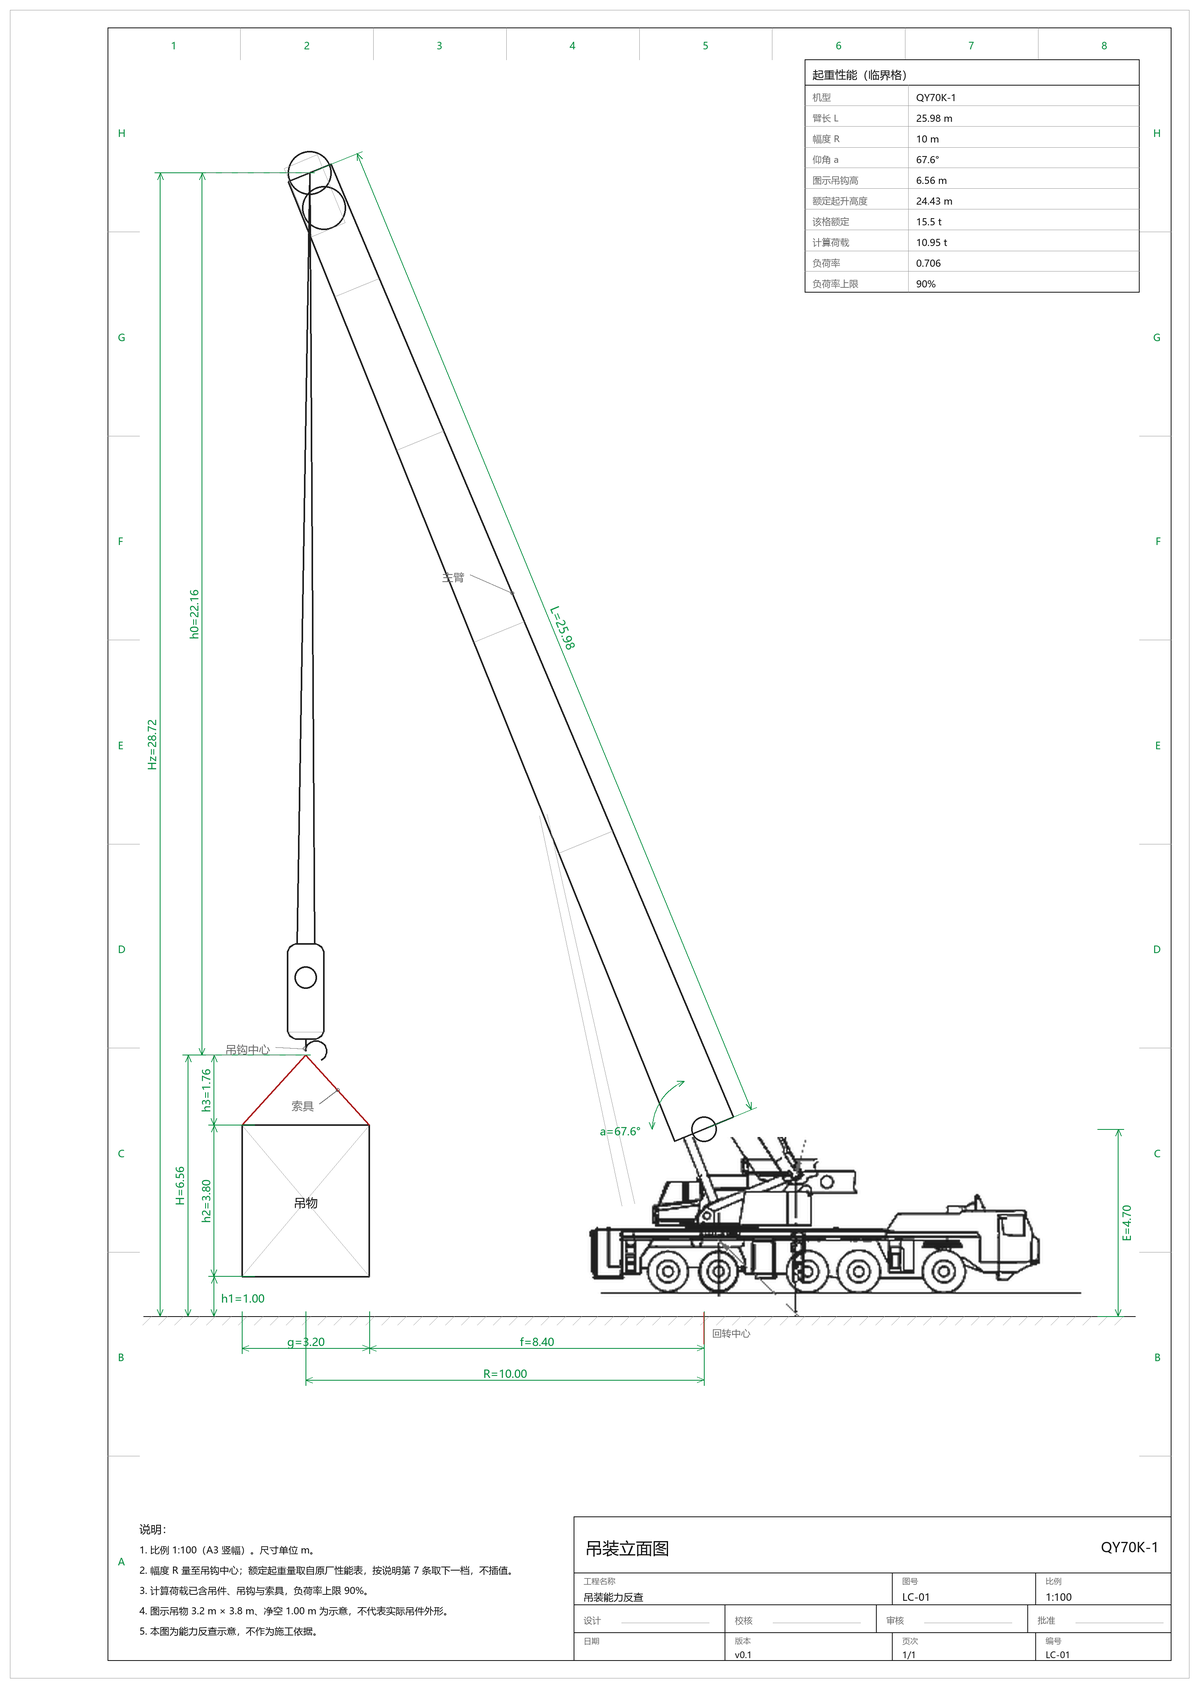
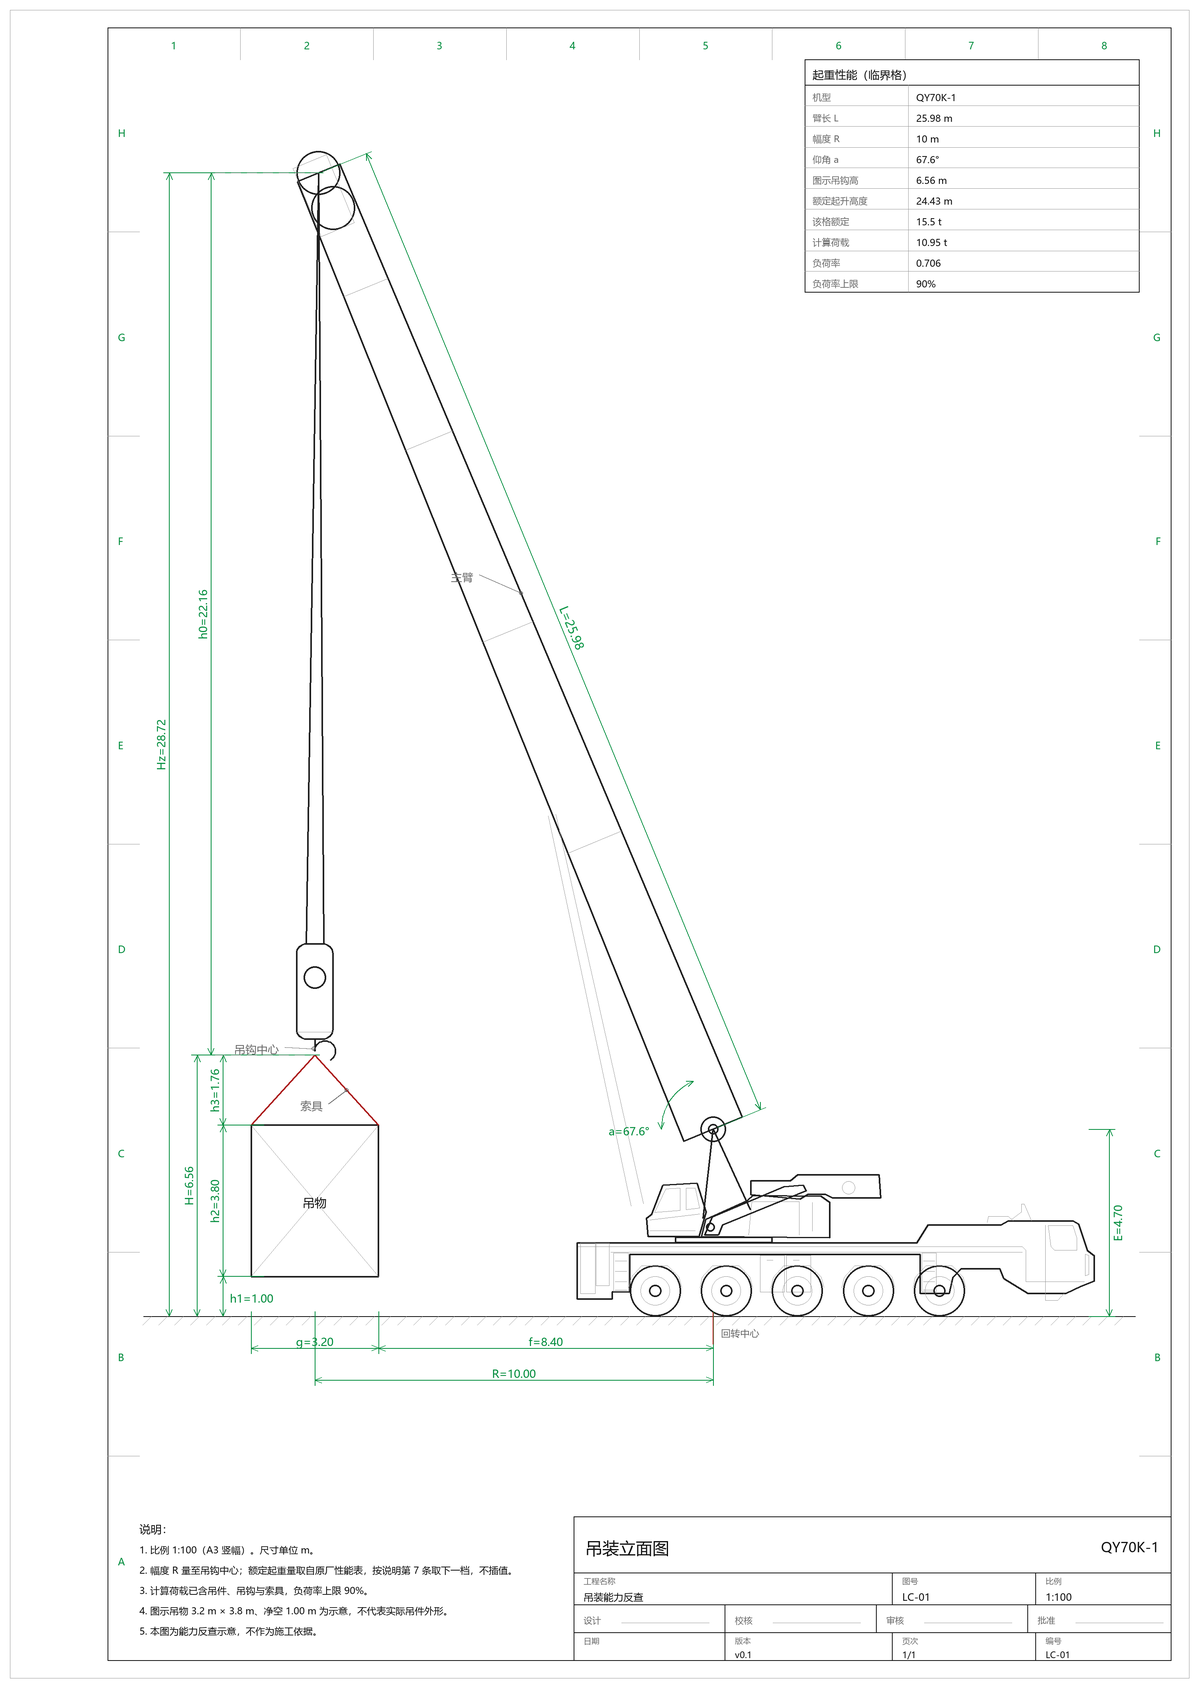
fix(drawing): 修正 PR #1 的车身标定、轴距与性能表标注
在 PR #1（车身矢量化）基础上做四处修正，都是"画出来的东西不对"：

1. 纵向标定：横向 942 px = 13 m（72.5 px/m），纵向却用 80 px/m，车身被压扁 10%。
   改为同一 px/m（各向同性），车身高度 3.22 m → 3.56 m，轮胎与轮拱才对得上。
2. 轮胎与轴距：轴位原本直接沿用描点时挑的像素，4 轴时轴距 1.57/4.02/2.48 m
   （中间漏一大块），6 轴时 1.41/1.39/2.39/1.44/1.48 m；改为按轴数在参考图范围内
   均布，并加断言"最小轴距 ≥ 2×WHEEL_R"。轮胎半径 0.55 → 0.64 m（轮拱实测 Ø1.28）。
3. 轴数规则：≤100 t 原定四轴，与 70 t 车实为五轴不符（描点来源本身就是五轴），
   改为 5 / 6 / 8。
4. 性能表里原本打"QY70K-1 / 4轴示意"：轴数是示意，写在图上会被当成机型参数，
   去掉；轴数只留在 figure.meta 与测试里。

另外：
- 车身尺寸常量收进 body.py（MODEL_REAR / BODY_MODEL_FRONT / PX_PER_M），
  figures.py 只引用 BODY_MODEL_FRONT，避免两处标定各说各话
- tests/test_drawing_axles.py 重写为类型标注风格，新增"未知吨级不出轴"与"轴距不重叠"断言
- ruff 清零（原 PR 有 3 条：导入排序、SIM102）
- README / 交接文档同步：车身一套、轴数为示意、待办改为"给机型库加 axles 列"

diff --git a/src/liftcalc/drawing/body.py b/src/liftcalc/drawing/body.py
@@ -1,6 +1,10 @@
-"""汽车吊矢量底盘：所有格式共用；轮距与轴数为吨级示意，不是厂商参数。
+"""汽车吊矢量底盘：SVG / PNG / DXF 共用同一套线稿。
 
-坐标同样走 ``paper``（模型 m → 图面 mm），故与立面几何严格对齐。
+轮廓按参考图的像素坐标描点（`docs/handover/assets/原版吊装立面-汽车吊.png` 的车身），
+所以形状与素材一致，但**矢量化**——放大不发虚，DXF 里也有车身。
+
+轴数为吨级示意（≤100 t 五轴、100–300 t 六轴、≥300 t 八轴），轮胎按真实直径画，
+不是厂商的轴距/轴荷数据。坐标同样走 ``paper``（模型 m → 图面 mm），与立面几何严格对齐。
 """
 
 from __future__ import annotations
@@ -12,45 +16,79 @@ from pathlib import Path
 from liftcalc.drawing.primitives import Circle, Figure, Polyline
 from liftcalc.drawing.style import LAYER_OUTLINE, LAYER_THIN
 
-# 轴距（m，模型 x：正值朝吊物侧即车尾，负值朝车头）
+# 参考图标定：车身长 942 px 对应 13 m；纵向必须用同一 px/m，否则车身被压扁 10%
+TRACE_PX = 942.0
+TRACE_M = 13.0
+PX_PER_M = TRACE_PX / TRACE_M          # ≈ 72.5 px/m
+MODEL_REAR = 3.45                      # 车尾（参考图 x=64 px）距回转中心
+BODY_MODEL_FRONT = TRACE_M - MODEL_REAR  # 车头前沿距回转中心 = 9.55 m
+GROUND_PX = 328.0                      # 参考图上地面线的 y
+WHEEL_R = 0.64                         # 轮胎半径（按参考图轮拱约 1.28 m 直径）
+
+# 每个轴数的轴距范围（参考图 px），取够放下 n 个 1.28 m 轮胎且不互相盖住
+AXLE_SPANS = {5: (209.0, 726.0), 6: (196.0, 784.0), 8: (168.0, 862.0)}
+DEFAULT_AXLES = 5
+
+
 @lru_cache(maxsize=1)
-def _catalog_tonnages():
-    pack = Path(__file__).resolve().parents[1] / 'data/pack/crane/models.csv'
-    with pack.open(encoding='utf-8-sig', newline='') as stream:
-        return {(row['brand'], row['model']): float(row['tonnage_class_t'])
-                for row in csv.DictReader(stream) if row['tonnage_class_t']}
+def _catalog_tonnages() -> dict[tuple[str, str], float]:
+    pack = Path(__file__).resolve().parents[1] / "data/pack/crane/models.csv"
+    with pack.open(encoding="utf-8-sig", newline="") as stream:
+        return {
+            (row["brand"], row["model"]): float(row["tonnage_class_t"])
+            for row in csv.DictReader(stream)
+            if row["tonnage_class_t"]
+        }
 
 
 def axle_count(tonnage: float | None) -> int | None:
+    """吨级 → 轴数示意。阈值只是"看起来像那么大的车"，不是厂商参数。"""
     if tonnage is None or tonnage <= 0:
         return None
-    return 4 if tonnage <= 100 else 8 if tonnage >= 300 else 6
+    if tonnage <= 100:
+        return 5
+    return 8 if tonnage >= 300 else 6
 
 
 def drawing_axles(cap: dict, detail: dict, brand: str) -> int | None:
-    tonnage = cap.get('tonnage_class')
+    tonnage = cap.get("tonnage_class")
     if tonnage is None:
-        tonnage = _catalog_tonnages().get((brand, detail.get('model') or cap.get('model')))
+        tonnage = _catalog_tonnages().get((brand, detail.get("model") or cap.get("model")))
     return axle_count(tonnage)
 
-WHEEL_R = 0.55
+
+def axle_stations(count: int | None) -> tuple[float, ...]:
+    """按轴数在参考图上均布轴位（单位：参考图 px）。"""
+    if not count:
+        return ()
+    low, high = AXLE_SPANS.get(count, AXLE_SPANS[DEFAULT_AXLES])
+    if count == 1:
+        return (low,)
+    step = (high - low) / (count - 1)
+    return tuple(low + step * index for index in range(count))
 
 
 def draw_truck(figure: Figure, paper, axles: int | None) -> None:
-    """Trace the carrier in reference-image coordinates; tyres remain true circles."""
-    def point(horizontal, vertical):
-        return paper(3.45 - (horizontal - 64) * 13 / 942, (328 - vertical) / 80)
+    """按参考图描点画车身；轮胎用真实圆，半径不随轴数变化。"""
 
-    def contour(vertices, *, closed=True, fine=False):
+    def point(horizontal: float, vertical: float) -> tuple[float, float]:
+        return paper(
+            MODEL_REAR - (horizontal - 64.0) * TRACE_M / TRACE_PX,
+            (GROUND_PX - vertical) / PX_PER_M,
+        )
+
+    def contour(vertices, *, closed: bool = True, fine: bool = False) -> None:
         figure.add(Polyline(tuple(point(*vertex) for vertex in vertices), closed,
                             LAYER_THIN if fine else LAYER_OUTLINE))
 
-    def detail(*vertices):
+    def detail(*vertices) -> None:
         contour(vertices, closed=False, fine=True)
 
-    def panel(left, top, right, bottom, fine=True):
+    def panel(left: float, top: float, right: float, bottom: float,
+              fine: bool = True) -> None:
         contour(((left, top), (right, top), (right, bottom), (left, bottom)), fine=fine)
 
+    # 底盘 + 车头轮廓
     contour(((67, 194), (685, 194), (706, 161), (838, 161), (851, 154),
              (969, 154), (979, 160), (995, 208), (1007, 217), (1007, 264),
              (983, 274), (956, 287), (887, 287), (843, 260), (836, 242),
@@ -58,12 +96,15 @@ def draw_truck(figure: Figure, paper, axles: int | None) -> None:
              (162, 216), (162, 284), (130, 284), (130, 297), (67, 297)))
     detail((69, 201), (877, 201), (883, 208), (883, 265), (990, 265))
     detail((128, 211), (877, 211))
-    contour(((924, 163), (969, 163), (976, 185), (976, 208), (935, 208),
-             (929, 201)), fine=True)
+    # 驾驶室
+    contour(((924, 163), (969, 163), (976, 185), (976, 208), (935, 208), (929, 201)),
+            fine=True)
     detail((919, 162), (919, 299), (941, 299), (953, 286))
     detail((991, 215), (998, 217), (998, 252), (991, 254), (991, 215))
+    # 后视镜
     detail((813, 157), (815, 146), (851, 146), (860, 154))
     detail((858, 151), (875, 138), (875, 124), (880, 124), (893, 154))
+    # 支腿箱 / 工具箱
     for left, right in ((133, 160), (694, 720)):
         panel(left, 213, right, 283)
         for level in (227, 246, 265, 280):
@@ -74,15 +115,17 @@ def draw_truck(figure: Figure, paper, axles: int | None) -> None:
         panel(left, 217, left + 44, 284)
         detail((left + 12, 226), (left + 23, 226))
 
-    groups = {4: (220, 334, 625, 805), 6: (218, 320, 421, 594, 698, 805),
-              8: (176, 269, 362, 455, 548, 641, 734, 827)}
-    for station in groups.get(axles, ()):
-        center = point(station, 284)
-        for fraction, layer in ((1, LAYER_OUTLINE), (.57, LAYER_THIN), (.24, LAYER_OUTLINE)):
+    # 车轮：每轴一轮（立面只见外轮），三道同心圆 + 轮拱
+    for station in axle_stations(axles):
+        center = (point(station, 0.0)[0], paper(0.0, WHEEL_R)[1])
+        for fraction, layer in ((1.0, LAYER_OUTLINE), (0.57, LAYER_THIN),
+                                (0.24, LAYER_OUTLINE)):
             figure.add(Circle(*center, WHEEL_R * fraction * paper.s, layer))
         contour(((station - 48, 276), (station - 44, 257), (station - 25, 236),
-                 (station + 23, 236), (station + 43, 256), (station + 48, 275)), closed=False, fine=True)
+                 (station + 23, 236), (station + 43, 256), (station + 48, 275)),
+                closed=False, fine=True)
 
+    # 平台 / 操纵室
     panel(246, 184, 421, 194, False)
     contour(((193, 149), (203, 142), (223, 89), (285, 85), (301, 138),
              (288, 183), (196, 183)))
@@ -90,16 +133,18 @@ def draw_truck(figure: Figure, paper, axles: int | None) -> None:
     contour(((265, 95), (282, 95), (290, 131), (265, 134)), fine=True)
     detail((199, 153), (290, 142))
     detail((200, 172), (282, 172))
+    # 回转台与配重
     contour(((293, 183), (301, 151), (377, 117), (387, 108), (511, 109),
              (526, 120), (526, 185)))
     detail((379, 180), (385, 119), (471, 119), (471, 180))
     detail((495, 121), (495, 173))
     contour(((313, 147), (443, 92), (478, 89), (483, 100), (331, 162),
              (324, 180), (299, 180)))
-    figure.add(Circle(*point(309, 166), .11 * paper.s, LAYER_OUTLINE))
+    figure.add(Circle(*point(309, 166), 0.11 * paper.s, LAYER_OUTLINE))
+    # 臂架搁架 + 铰点（接到模型铰点，保证与臂架对齐）
     contour(((383, 107), (383, 81), (455, 81), (468, 70), (616, 70),
              (619, 113), (532, 113), (519, 106), (487, 106), (472, 115)))
-    figure.add(Circle(*point(561, 94), .16 * paper.s, LAYER_THIN))
-    hinge = paper(0, 4.7)
+    figure.add(Circle(*point(561, 94), 0.16 * paper.s, LAYER_THIN))
+    hinge = paper(0.0, 4.7)
     figure.add(Polyline((point(296, 150), hinge, point(382, 134)), False, LAYER_OUTLINE))
-    figure.add(Circle(*hinge, .13 * paper.s, LAYER_OUTLINE))
+    figure.add(Circle(*hinge, 0.13 * paper.s, LAYER_OUTLINE))

diff --git a/tests/test_drawing_axles.py b/tests/test_drawing_axles.py
@@ -1,26 +1,79 @@
+"""车身轴数示意：吨级 → 轴数，轴距不重叠，图上画的是真圆。"""
+
+from __future__ import annotations
+
+from itertools import pairwise
+
 import pytest
 
-from liftcalc.drawing.body import WHEEL_R, drawing_axles
+from liftcalc.core.result import ComputationResult
+from liftcalc.drawing.body import (
+    TRACE_M,
+    TRACE_PX,
+    WHEEL_R,
+    axle_count,
+    axle_stations,
+    drawing_axles,
+)
 from liftcalc.drawing.figures import elevation_figure
 from liftcalc.drawing.primitives import Circle, Image
-from liftcalc.core.result import ComputationResult
 
 
-@pytest.mark.parametrize('tonnage,expected',[(70,4),(100,4),(101,6),(130,6),(150,6),(200,6),(299,6),(300,8),(500,8)])
-def test_wheels_on_actual_sheet(tonnage,expected):
-    cap = dict(ok=True, mode='single', model='图元测试', tonnage_class=tonnage,
-               required=10,limit=.9,max_radius=10,boom_len=25.98,boom_angle=67.6,lift_height=24.43,
-               rated_load=15.5,utilization=.7)
-    result=ComputationResult(kind='crane.capability',engine_version='test',aux={'capability':cap})
-    sheet=elevation_figure(result)
-    assert sheet.meta['axles']==expected
-    wheels=[item for item in sheet.primitives if isinstance(item,Circle) and item.layer=='OUTLINE' and
-            abs(item.r-WHEEL_R*sheet.meta['scale'])<1e-8]
-    assert len({round(item.cx,6) for item in wheels if item.cy==min(wheel.cy for wheel in wheels)})==expected
-    assert not any(isinstance(item,Image) for item in sheet.primitives)
+@pytest.mark.parametrize(
+    ("tonnage", "expected"),
+    [(70, 5), (100, 5), (101, 6), (130, 6), (200, 6), (299, 6), (300, 8), (500, 8)],
+)
+def test_axle_count_by_tonnage(tonnage: float, expected: int) -> None:
+    assert axle_count(tonnage) == expected
 
 
-def test_legacy_result_uses_catalog_not_payload():
-    assert drawing_axles({'model':'QY70K-1','required':300},{},'徐工')==4
-    assert drawing_axles({'model':'QAY200','required':1},{},'徐工')==6
-    assert drawing_axles({'model':'未知型号','required':500},{},'徐工') is None
+def test_unknown_tonnage_has_no_axles() -> None:
+    assert axle_count(None) is None
+    assert axle_count(0) is None
+    assert axle_stations(None) == ()
+
+
+@pytest.mark.parametrize("count", [5, 6, 8])
+def test_axle_spacing_keeps_tyres_apart(count: int) -> None:
+    stations = axle_stations(count)
+    gaps = [right - left for left, right in pairwise(stations)]
+    smallest_gap_m = min(gaps) * TRACE_M / TRACE_PX
+    assert smallest_gap_m >= 2 * WHEEL_R, f"{count} 轴：最小轴距 {smallest_gap_m:.2f} m 小于轮胎直径"
+
+
+def test_legacy_result_falls_back_to_catalog() -> None:
+    """老结果 JSON 里没有 tonnage_class，按机型回查机型库 CSV。"""
+    assert drawing_axles({"model": "QY70K-1", "required": 300}, {}, "徐工") == 5
+    assert drawing_axles({"model": "QAY200", "required": 1}, {}, "徐工") == 6
+    assert drawing_axles({"model": "未知型号", "required": 500}, {}, "徐工") is None
+
+
+def _synthetic_result(tonnage: float) -> ComputationResult:
+    cap = {
+        "ok": True,
+        "mode": "single",
+        "model": f"{tonnage:g}t 示意",
+        "tonnage_class": tonnage,
+        "required": 10.0,
+        "limit": 0.9,
+        "max_radius": 10.0,
+        "boom_len": 25.98,
+        "boom_angle": 67.6,
+        "lift_height": 24.43,
+        "rated_load": 15.5,
+        "utilization": 0.7,
+    }
+    return ComputationResult(kind="crane.capability", engine_version="test",
+                             aux={"capability": cap})
+
+
+def test_elevation_uses_vector_body_with_expected_axles() -> None:
+    figure = elevation_figure(_synthetic_result(70))
+    assert figure is not None
+    assert figure.meta["axles"] == 5
+    assert not any(isinstance(item, Image) for item in figure.primitives)
+
+    outer = [item for item in figure.primitives
+             if isinstance(item, Circle)
+             and abs(item.r - WHEEL_R * figure.meta["scale"]) < 1e-9]
+    assert len({round(item.cx, 6) for item in outer}) == 5

diff --git a/src/liftcalc/drawing/figures.py b/src/liftcalc/drawing/figures.py
@@ -18,7 +18,11 @@ from typing import Any
 from liftcalc.core.result import ComputationResult
 from liftcalc.drawing import dim as D
 from liftcalc.drawing import sheet as S
-from liftcalc.drawing.body import draw_truck, drawing_axles
+from liftcalc.drawing.body import (
+    BODY_MODEL_FRONT,
+    draw_truck,
+    drawing_axles,
+)
 from liftcalc.drawing.primitives import (
     ALIGN_CENTER,
     ALIGN_RIGHT,
@@ -50,10 +54,7 @@ HINGE_H = 4.7
 BOOM_HALF_FOOT = 0.80     # 臂根半宽
 BOOM_HALF_TIP = 0.58      # 臂端半宽
 BOOM_JOINTS = (0.30, 0.52, 0.72, 0.88)   # 伸缩节搭接位置（占臂长比例）
-BODY_LEN = 13.6           # 车身总长
-BODY_REAR = 3.6           # 车尾（含配重）距回转中心；与素材上的臂架铰点对齐
-BODY_FRONT = BODY_LEN - BODY_REAR
-BODY_RATIO = 126.0 / 380.0   # 车身素材高宽比
+BODY_FRONT = BODY_MODEL_FRONT   # 车头前沿距回转中心（车身标定见 drawing/body.py）
 BLOCK_W = 0.90            # 吊钩组筒体宽
 BLOCK_H = 2.40            # 吊钩组筒体高
 BLOCK_GAP = 0.40          # 筒体底到吊钩中心
@@ -689,7 +690,7 @@ def _build_sheet_view(model: ElevationModel, model_notes: list[str],
     # ---- 性能表 ----------------------------------------------------------
     rated_lift = detail.get("lift_height")
     rows: list[tuple[str, str]] = [
-        ("机型", f"{detail.get('model') or cap.get('model') or ''} / " + (f'{axles}轴示意' if axles else '轴数未定')),
+        ("机型", str(detail.get("model") or cap.get("model") or "")),
         ("臂长 L", f"{model.boom_len:.2f} m"),
         ("幅度 R", f"{model.radius:g} m"),
         ("仰角 a", f"{model.boom_angle:.1f}°"),

diff --git a/src/liftcalc/services/calc.py b/src/liftcalc/services/calc.py
@@ -805,10 +805,9 @@ def _capability_case(case: CapabilityCase, repo: Repo | None) -> ComputationResu
         model_row = repo.crane_model(case.crane.brand, case.crane.model)
     except DataError:
         model_row = None
-    if hook_mass == 0.0:
-        if model_row is not None and model_row.get("hook_main_t"):
-            hook_mass = float(model_row["hook_main_t"])
-            hook_from_db = True
+    if hook_mass == 0.0 and model_row is not None and model_row.get("hook_main_t"):
+        hook_mass = float(model_row["hook_main_t"])
+        hook_from_db = True
 
     required = crane_capability.required_load(
         payload=case.payload,

diff --git a/docs/handover/交接文档.md b/docs/handover/交接文档.md
@@ -281,7 +281,7 @@ parts_of_line, source_page, note, config
 | 版面 | ✅ 自动选图幅方向与**真实比例**，内容按实际外包框居中 |
 | 尺寸链 | ✅ R / f / g / H / Hz / h0–h3 / L / a / E，带界线与箭头 |
 | 引线标注 | ✅ 吊钩中心 / 主臂 / 索具 / 回转中心 |
-| 车身 | ⚠ PNG/SVG 仍是**位图**（放大 3.6 倍会发虚）；DXF 用矢量车身 |
+| 车身 | ✅ 三种格式共用**矢量车身**（按原版素材描点，放大不发虚） |
 | 精细度 | ⚠ 臂架为简化线稿，无局部放大详图、无材料明细表 |
 
 ### 8.2 图元模型（`drawing/primitives.py`，206 行）
@@ -333,8 +333,10 @@ Image(x, y, w, h, path)                            # 位图块（左下角定位
 > 颜色、线宽、图幅、比例梯全部在 `drawing/style.py`——**三端样式只有这一个来源**。
 > 历史上 SVG 的 DIM 是蓝色、PNG 是绿色，就是因为各写各的。
 
-**三种格式的差异（要跟用户讲清楚）**：DXF 放不了位图，所以 DXF 版本的车身改画矢量简图
-（`drawing/body.py`）；SVG/PNG 贴原版素材。图形、尺寸、标注完全一致。
+**车身只有一套**：`drawing/body.py` 按 `docs/handover/assets/原版吊装立面-汽车吊.png`
+的车身轮廓描点（参考图上 942 px = 13 m），SVG / PNG / DXF 共用，所以三份产物完全一致。
+轴数按额定吨级示意（≤100 t 五轴 / 100–300 t 六轴 / ≥300 t 八轴），轮胎按 1.28 m 直径画，
+**轴距不是厂商参数**——要准确，得给机型库加一列 `axles` 并从规格书录入。
 
 ### 8.4 吊装立面图的组成（`drawing/figures.py`，811 行；立面部分拆成若干 `_draw_*` 小函数）
 
@@ -347,7 +349,7 @@ Image(x, y, w, h, path)                            # 位图块（左下角定位
    位置固定，几何若压到性能表就退一档重排
 2. **图框**：外框 + 内框（左 25 / 其余 5），8 mm 分区带内画 1–8 / A–H（被标题栏盖住的段落自动跳过）
 3. **地面**：横线 + 剖面线（画在模型 y=0 处）
-4. **车身**：位图（对齐：图像上的铰点落在模型原点上方 4.7 m）或矢量车身
+4. **车身**：矢量线稿（描点自原版素材；铰点与模型原点上方 4.7 m 对齐，车轮为真圆）
 5. **臂架**：梯形双线（根部半宽 0.80、臂端 0.58）+ 4 道伸缩节搭接线 + 变幅油缸（双线）
 6. **臂端**：两个滑轮圆 + 臂头支架
 7. **起升绳**：臂端 → 吊钩组顶部，两股
@@ -420,8 +422,8 @@ Image(x, y, w, h, path)                            # 位图块（左下角定位
 
 **仍缺（按优先级）**
 
-1. **车身位图**：PNG/SVG 里仍是 380×126 的位图，1:100 时要放大 3.6 倍。
-   彻底解决要画矢量车身（`body.py` 里已有一个简化版，可作为起点继续细化）。
+1. **轴数是示意**：按吨级给了 5/6/8 轴，QY70K-1 这类 70 t 车真实是五轴（碰巧对上），
+   但 130/200 t 的具体轴数与轴距没录。要准确：机型库加 `axles` 列，别再用吨级推。
 2. **臂架细节**：只有搭接线，没有油缸销轴、臂头滑轮组的具体布置。
 3. **吊钩组绕线**：原版筒体内能看到绳子绕过滑轮。
 4. **h4 / 安装支座**：原版有支座与净空（h1–h4 全链），我们按"吊物底净空"简化，

diff --git a/README.md b/README.md
@@ -128,7 +128,7 @@ pip install pint numpy pydantic python-docx ezdxf typer PyYAML pytest hypothesis
 比例是**真实的**：按内容外包框在标准比例梯 1:50 / 1:100 / 1:150 / 1:200 … 里取最大可容的一档，
 所以标题栏、说明里写的比例与图上量出来的一致（过去写死 1:100，实际是 1:131）。
 
-> **同一矢量车身**：SVG、PNG、DXF 共用按参考图重绘的驾驶室、上车、低平车架与轮组。轴数只按机型额定吨级示意：≤100 t 四轴，100–300 t 之间六轴，≥300 t 八轴；不是实际轴距或轴荷数据。
+> **同一矢量车身**：SVG、PNG、DXF 共用按参考图描点重绘的驾驶室、上车、车架与轮组，放大不发虚。轴数只按机型额定吨级示意：≤100 t 五轴，100–300 t 六轴，≥300 t 八轴；轴距与轴荷不是厂商参数。`drawing/assets/crane_body.png` 只是描点来源，不再直接贴图。
 
 ---
 
